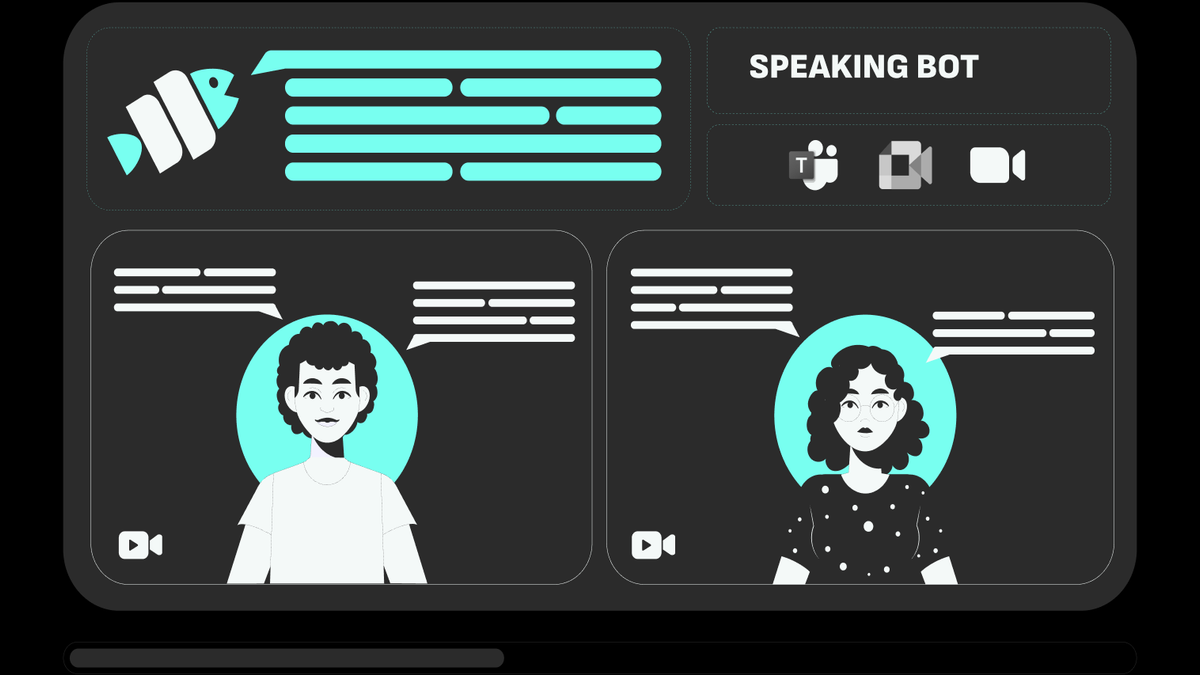
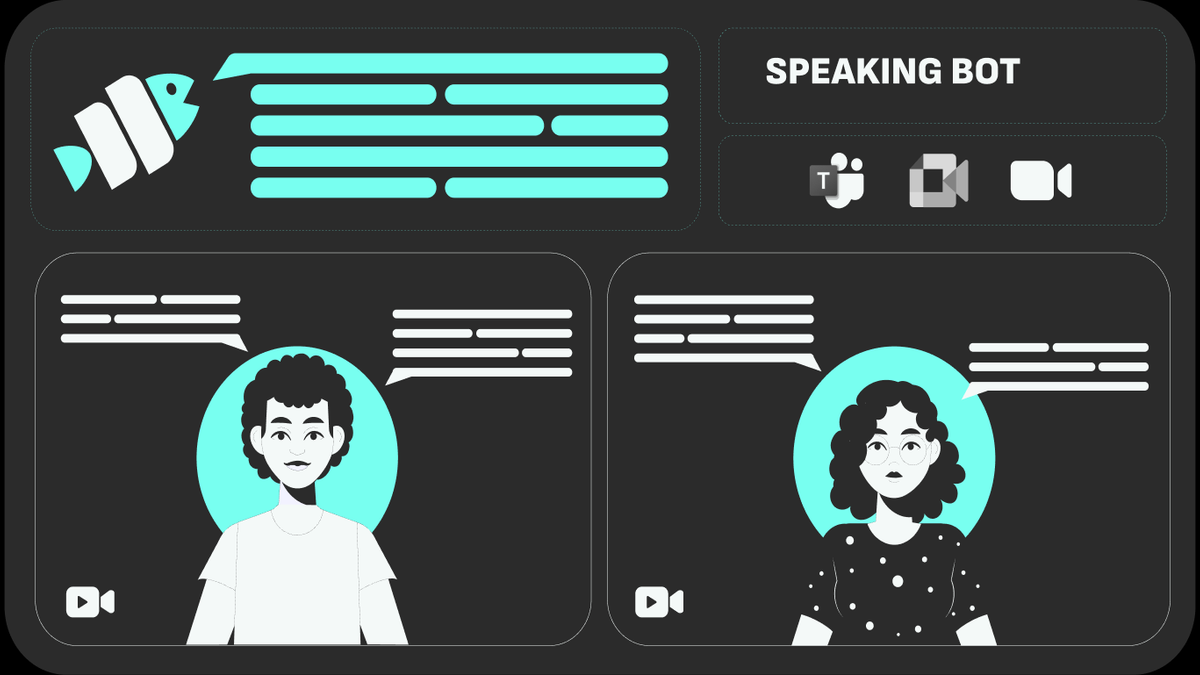
fix: restore the section separators and rework two covers
The selection-menu rewrite wrapped the page in a `contents` div. That
div is still a DOM child, so `main`'s `divide-y` saw one child instead
of every section, and a `contents` box cannot paint a border in any
case, so all the separators vanished. Dividing on the wrapper puts them
back on the sections; Tailwind skips the last child, so the rule above
the footer is restored explicitly.

Reframes two covers: the Speaking Meeting Bot card is cropped away from
the scrollbar sitting below it and centred on its own black, and
AnirudhGPT is cropped to the chat pane rather than padded out.

Adds company logos for MeetingBaaS and Energent, links the MeetingBaaS
work through to both case studies, and moves the star counts to an
emoji.

Claude-Session: https://claude.ai/code/session_01QEX4CiLMehgu4rdDt17Npp

diff --git a/src/constants/portfolio/experiences.tsx b/src/constants/portfolio/experiences.tsx
@@ -6,6 +6,7 @@ export const experiences: ExperienceItemType[] = [
     id: 'energent',
     companyName: 'Energent.ai',
     companyWebsite: 'https://energent.ai',
+    companyLogo: '/images/companies/energent.png',
     positions: [
       {
         id: '1',
@@ -24,6 +25,7 @@ export const experiences: ExperienceItemType[] = [
     id: 'meetingbaas',
     companyName: 'MeetingBaaS',
     companyWebsite: 'https://www.meetingbaas.com/en',
+    companyLogo: '/images/companies/meetingbaas.png',
     positions: [
       {
         id: '1',
@@ -32,7 +34,7 @@ export const experiences: ExperienceItemType[] = [
         employmentType: 'Freelance',
         icon: <Icons.codeXml />,
         description:
-          'Built Transcript Seeker and Speaking Meeting Bot, plus the AI chat and MCP tooling around the MeetingBaaS meeting APIs.',
+          'Built [Transcript Seeker](/work/transcript_seeker) and [Speaking Meeting Bot](/work/speaking_meeting_bot), plus the AI chat and MCP tooling around the MeetingBaaS meeting APIs.',
         skills: ['TypeScript', 'React', 'Next.js', 'Python', 'Drizzle', 'MCP'],
         isExpanded: true,
       },

diff --git a/src/components/ai/selection-context-menu.tsx b/src/components/ai/selection-context-menu.tsx
@@ -119,7 +119,17 @@ export function SelectionContent({ children }: { children: ReactNode }) {
 
   return (
     <>
-      <div className='contents' ref={containerRef}>
+      {/*
+        `contents` keeps this wrapper out of the layout, but it is still a DOM
+        child, so the parent's `divide-y` sees one child and draws nothing --
+        and a `contents` box cannot paint a border anyway. Dividing here puts
+        the separators back on the sections themselves. `divide-y` skips the
+        last child, so the rule above the footer is restored explicitly.
+      */}
+      <div
+        className='contents divide-y divide-dashed divide-border [&>:last-child]:border-border [&>:last-child]:border-b [&>:last-child]:border-dashed'
+        ref={containerRef}
+      >
         {children}
       </div>
       {popup &&
